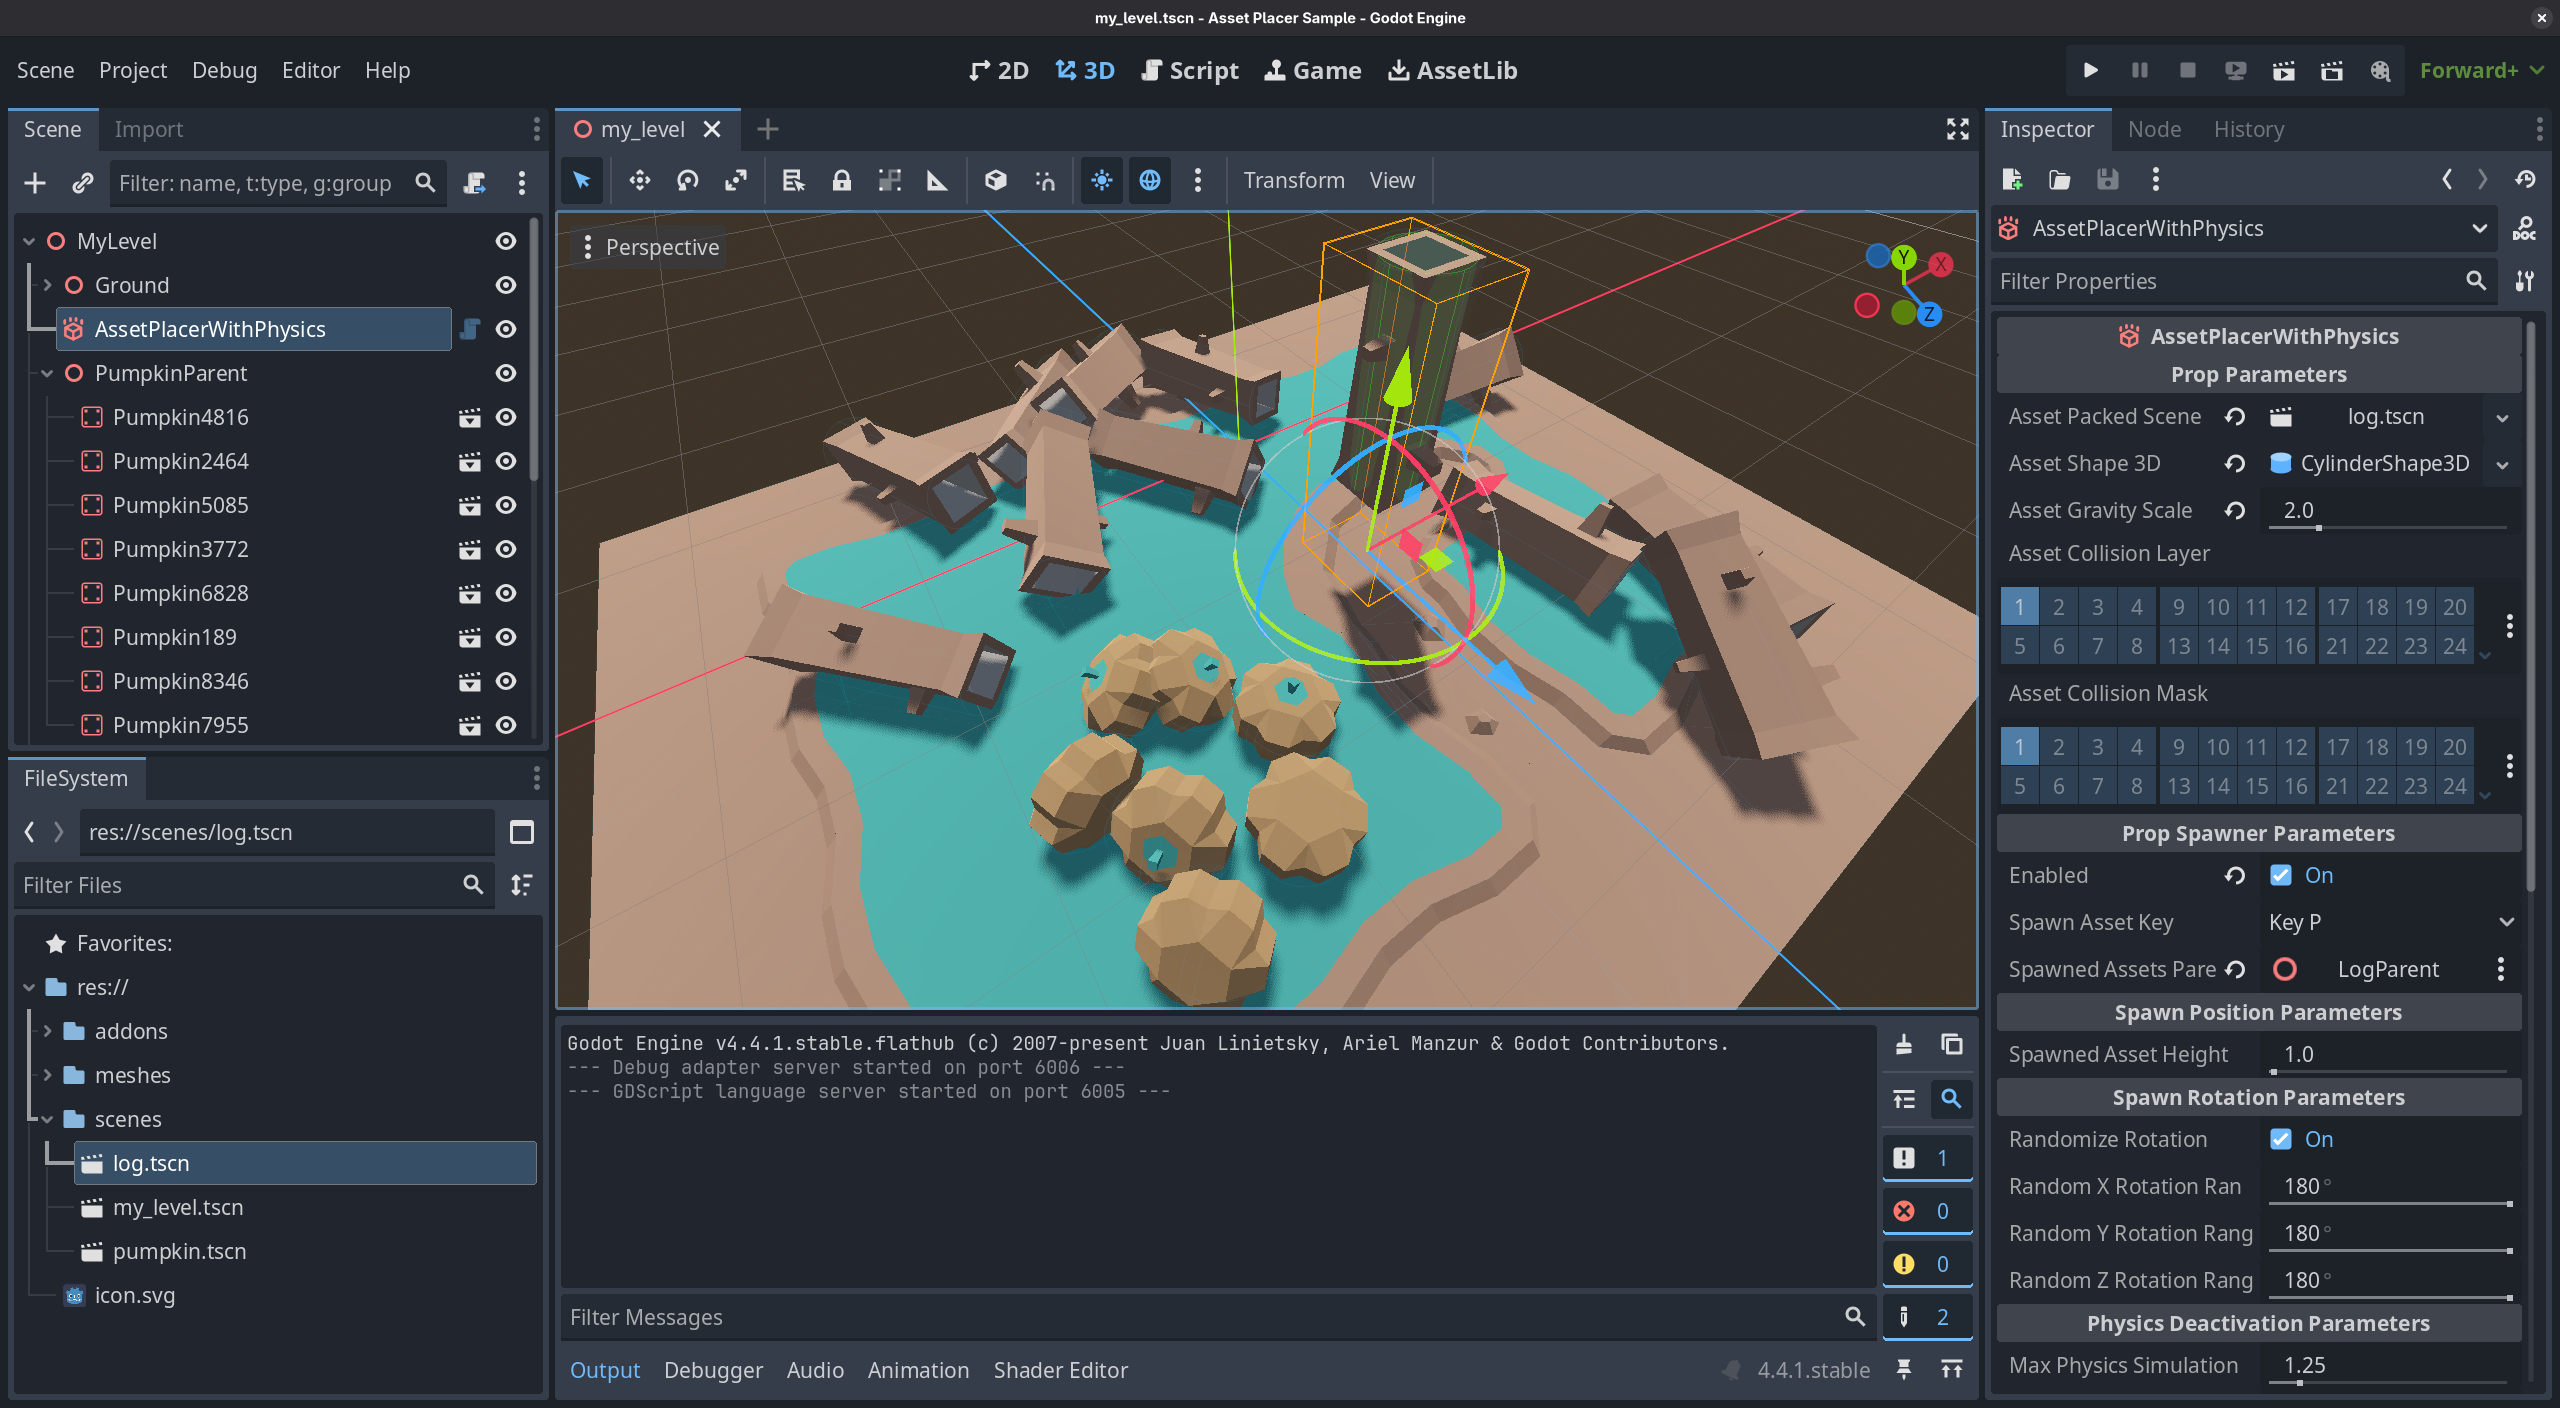
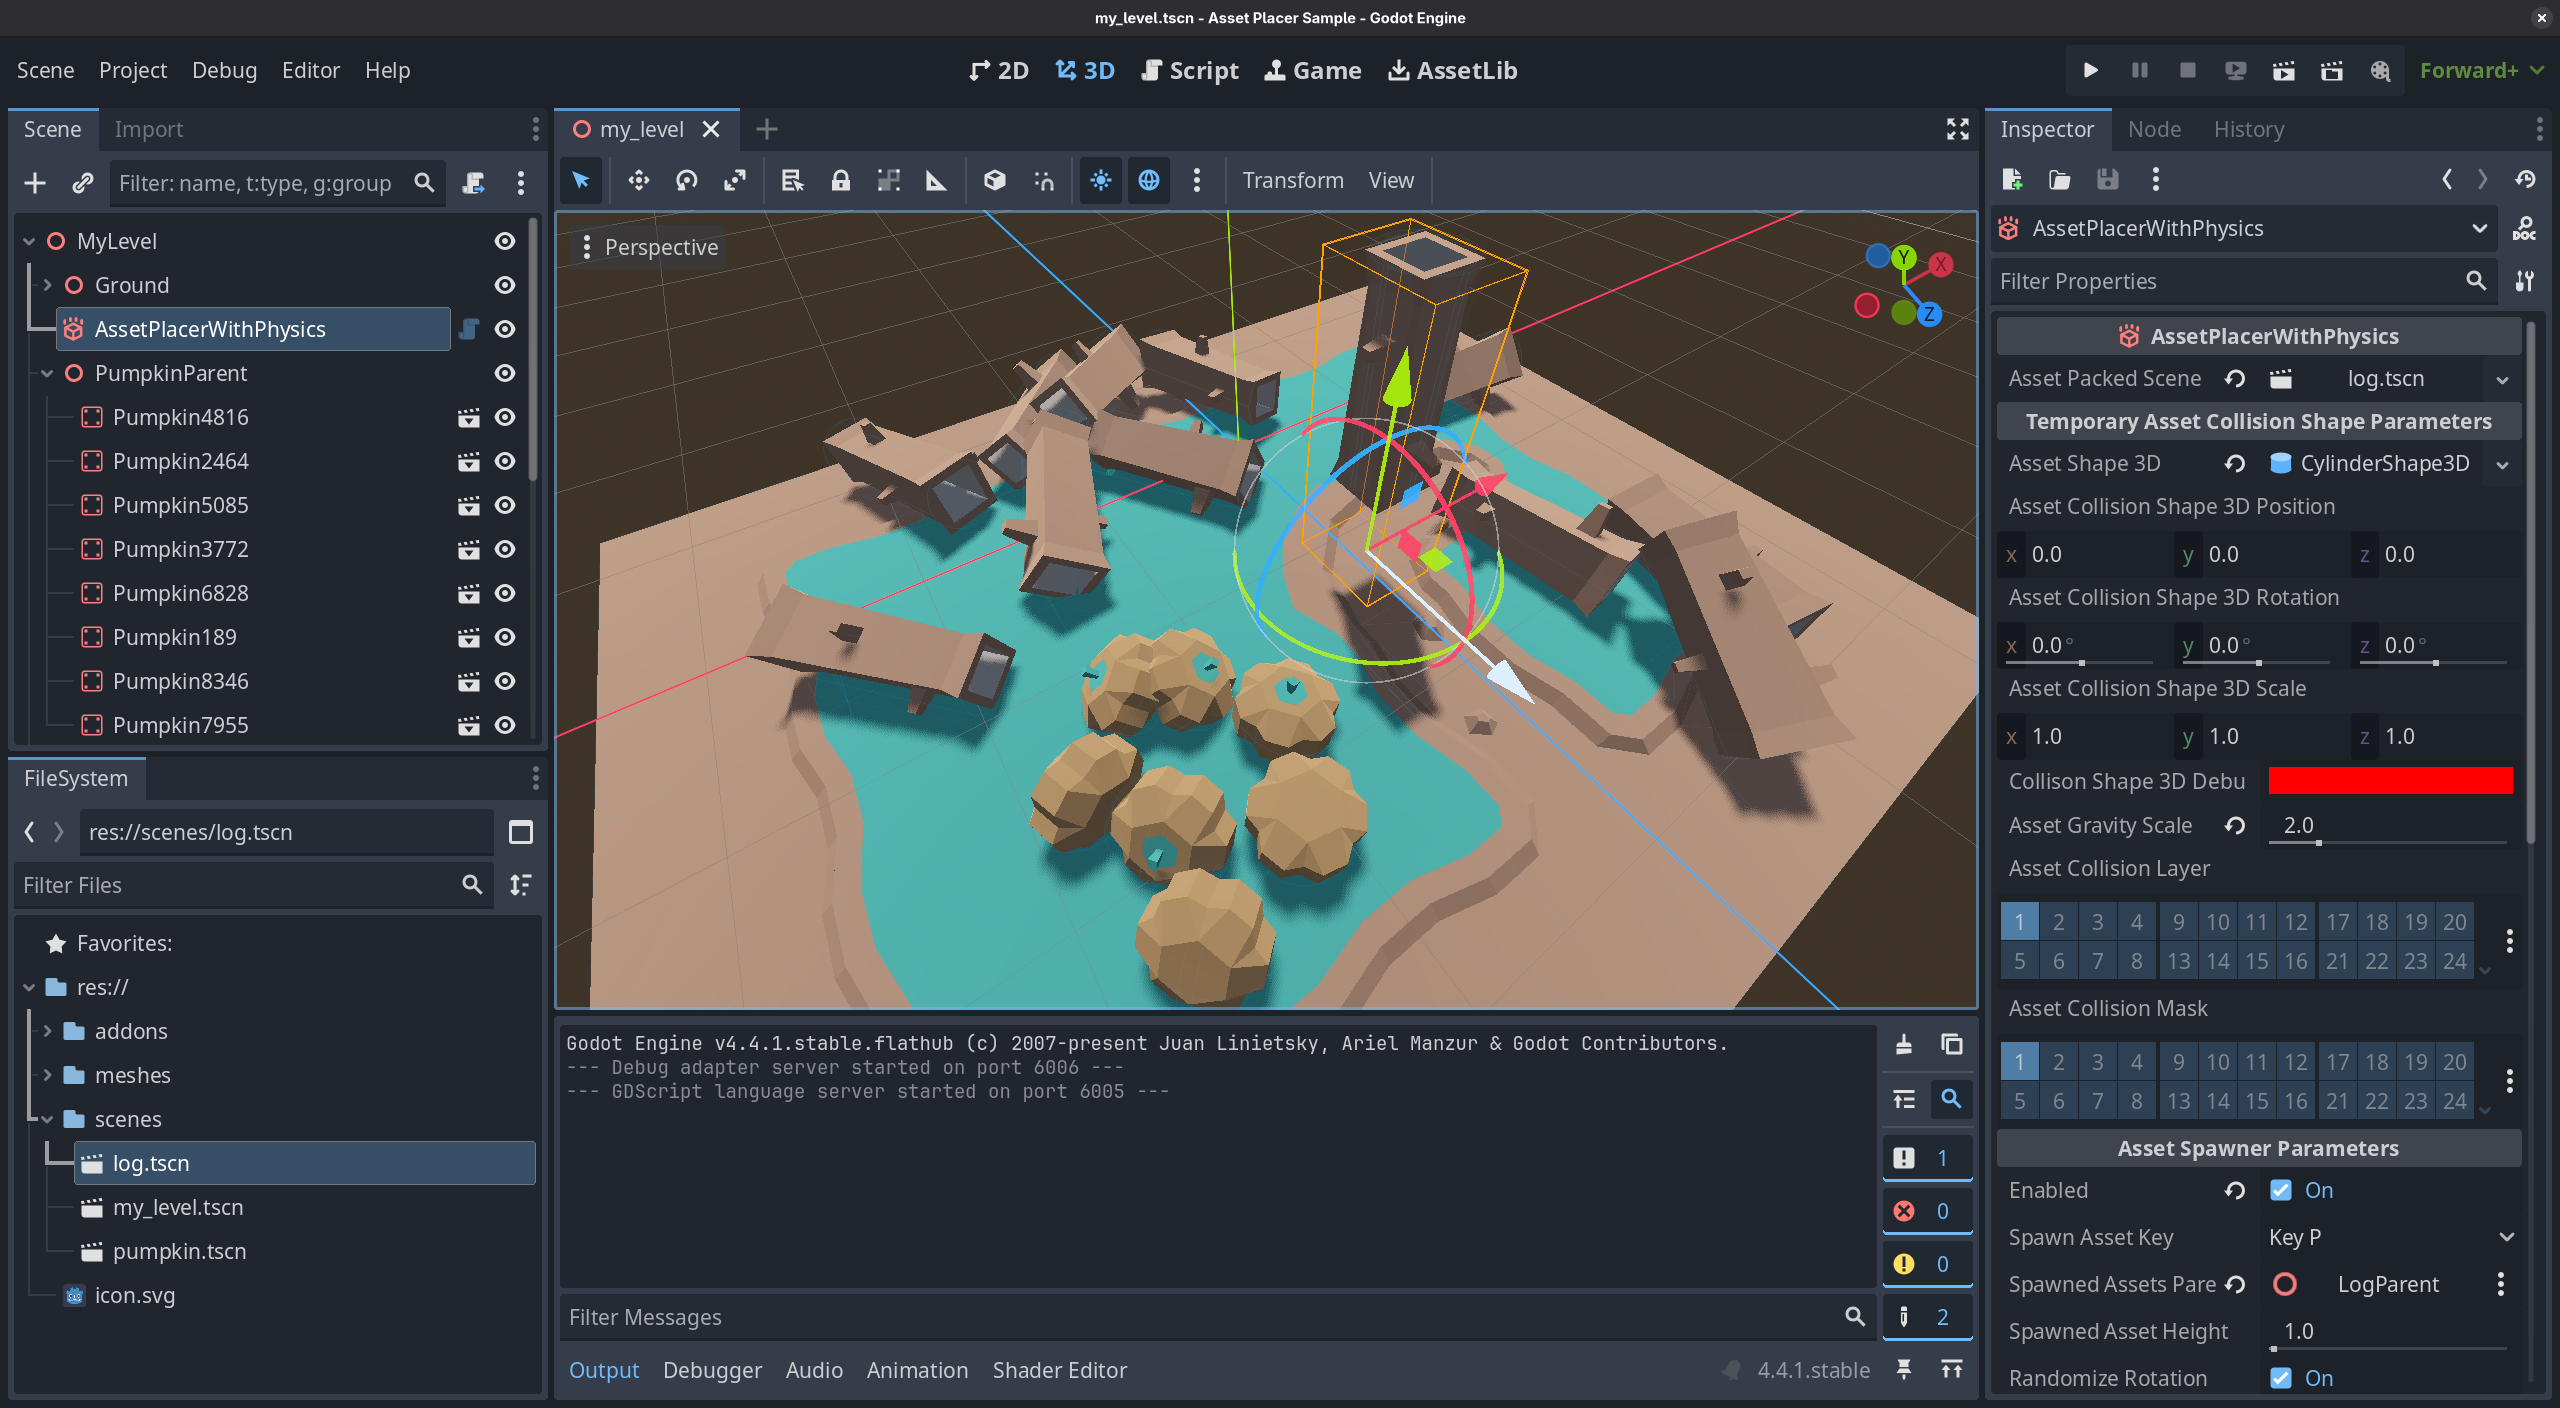
Add support for custom collision shape transform. Add support for different debug colors.

diff --git a/README.md b/README.md
@@ -2,10 +2,16 @@
 [![Made with Godot](https://img.shields.io/badge/Made%20with-Godot-478CBF?style=flat&logo=godot%20engine&logoColor=white)](https://godotengine.org)
 ![Mastodon Follow](https://img.shields.io/mastodon/follow/109780053447231118?domain=mastodon.gamedev.place)
 
+![Screenshot of the Godot Editor running the tool.](./screenshots/screenshot-2.png)
 
-An editor plugin that allows any `Node3D` derived `PackedScene` to be instantiated and placed in a 3D scene using physics. 
 
-This tool is useful to automatically place assets that need to lay naturally on the ground, or against other assets.
+An editor plugin that allows assets to be instantiated and dropped on a 3D scene using physics. Useful to automatically place assets that need to lay naturally on the ground or against other assets.
+
+This tool is compatible with any `Node3D` derived `PackedScene` as it works by temporarily wrapping the asset inside a `RigidBody3D`. Then, the physics simulation is enabled for a couple of seconds just for the newly spawned instances.
+
+The `RigidBody3D` node needs a `CollisionShape3D` to work, which is created automatically using the parameters exposed in the inspector next to the field to select the asset.
+
+
 
 ## ⬇ Installation
 1. Download the asset from the `AssetLib` tab in the Godot Editor.
